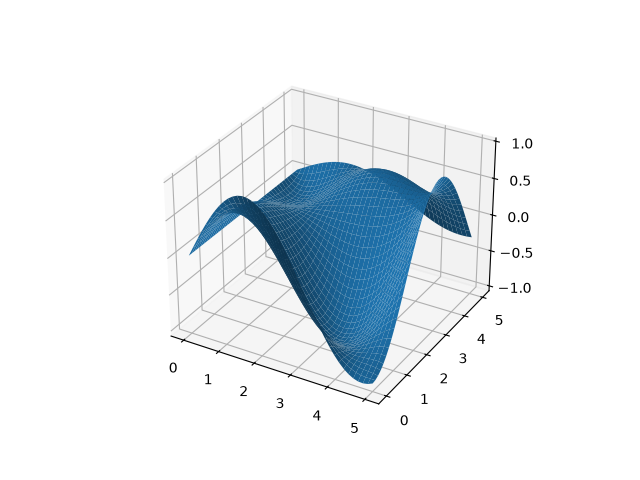
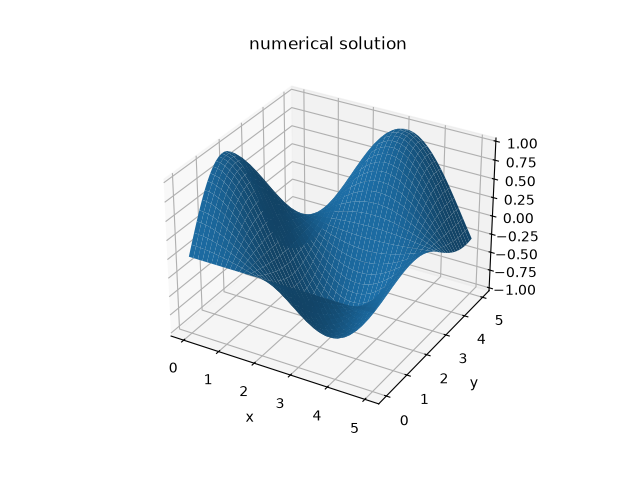
Got numerical solution to converge!

diff --git a/Scripts/problem_0_4.py b/Scripts/problem_0_4.py
@@ -17,26 +17,24 @@ def finiteDifferencePoisson(a, b, n, bc="dirichlet"):
         x = np.linspace(a, b, n)
         y = np.linspace(a, b, n) # this line in unnecessary but makes my code a bit easier to read
         xx, yy = np.meshgrid(x,y)
+        print(xx)
+        print(yy)
         h = (b-a)/(n-1)
         b_hat_inter = f(xx,yy)
         b_hat = b_hat_inter.reshape((n**2,))
-        print(b_hat_inter)
-        print(b_hat)
-        print(xx)
-        print(yy)
         print("Defining linear system...")
         for i in range(n):
             for j in range(n):
                 k = n*i+j
                 # leave A unmodified (we want an identity row) and update b_hat to enforce the boundary condition along the boundaries
-                if i == 0:
-                    b_hat[k] = np.sin(y[j])
-                elif j == 0:
+                if i == 0: # u(x,0)
                     b_hat[k] = 0
-                elif i == n-1:
-                    b_hat[k] = np.sin(y[j])*np.cos(5)
-                elif j == n-1 :
-                    b_hat[k] = np.sin(5)*np.cos(x[i])
+                elif j == 0: # u(0,y)
+                    b_hat[k] = np.sin(y[i])
+                elif i == n-1: # u(x,5)
+                    b_hat[k] = np.sin(5)*np.cos(x[j])
+                elif j == n-1 : #u(5,y)
+                    b_hat[k] = np.sin(y[i])*np.cos(5)
                 # Finite difference formula everywhere else
                 else:
                     A[k,k] = -4/h**2
@@ -44,14 +42,17 @@ def finiteDifferencePoisson(a, b, n, bc="dirichlet"):
                     A[k,k+1] = 1/h**2
                     A[k,k-n] = 1/h**2
                     A[k,k+n] = 1/h**2
+
     print("Linear system defined")
     # Solve the system
     print("Solving linear system...")
+    print(b_hat)
     u_approx = np.linalg.solve(A, b_hat)
     print("Linear system solved")
     # Reshape outputs so they are good for plotting
 
     u_approx = u_approx.reshape((n,n))
+    print(u_approx)
     return xx, yy, u_approx
         
 def main():
@@ -68,11 +69,17 @@ def main():
     fig1 = plt.figure(1)
     ax1 = plt.axes(projection='3d')
     ax1.plot_surface(xx,yy,u_approx)
+    ax1.set_xlabel("x")
+    ax1.set_ylabel("y")
+    ax1.set_title("Numerical Solution")
     plt.savefig("Images\\problem4_1.png")
 
     fig2 = plt.figure(2)
     ax2 = plt.axes(projection='3d')
     ax2.plot_surface(xx,yy,u_exact)
+    ax2.set_xlabel("x")
+    ax2.set_ylabel("y")
+    ax2.set_title("Exact Solution")
     plt.savefig("Images\\problem4_2.png")
     plt.show()
 
